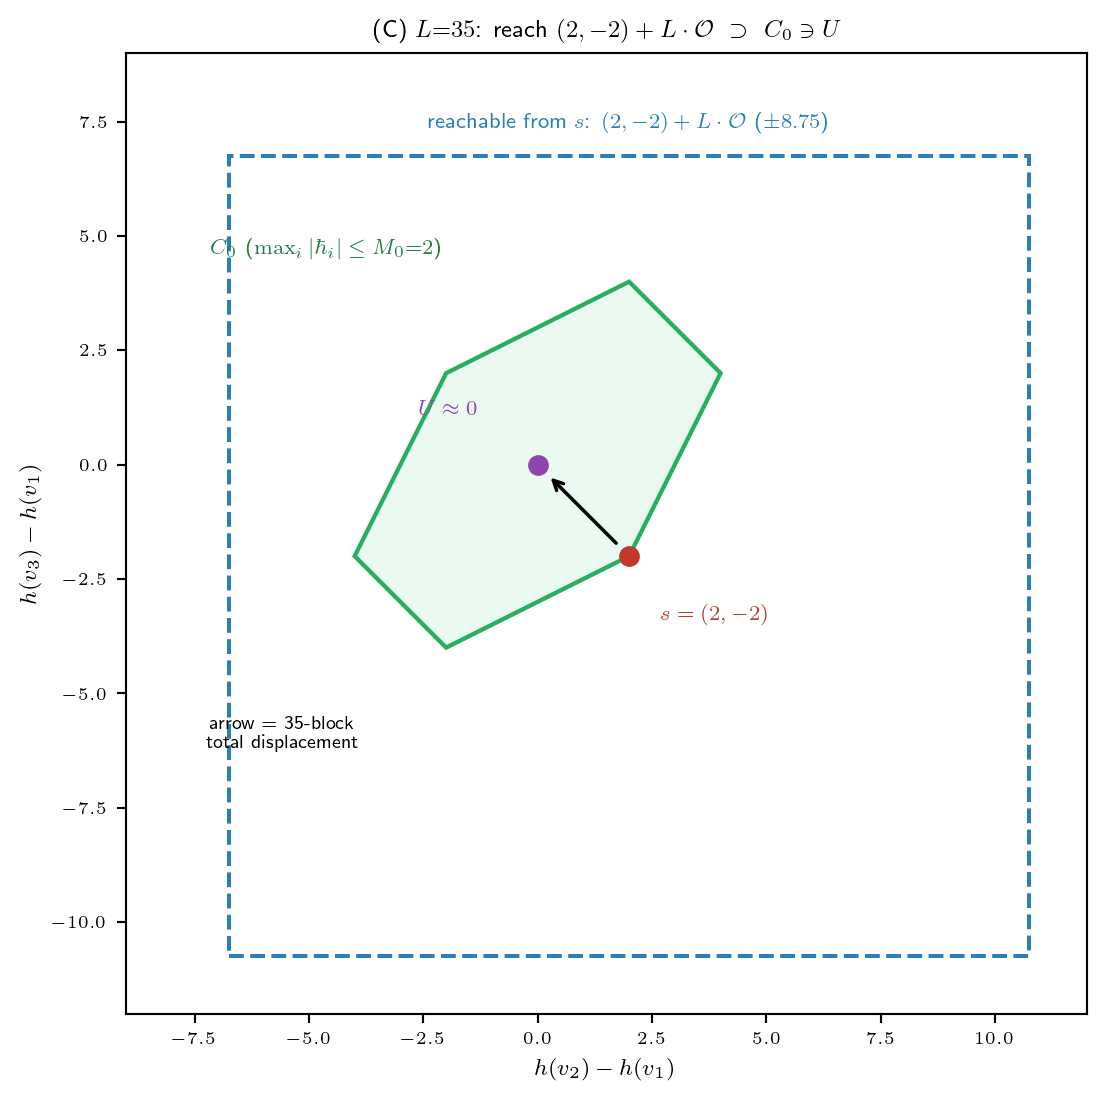
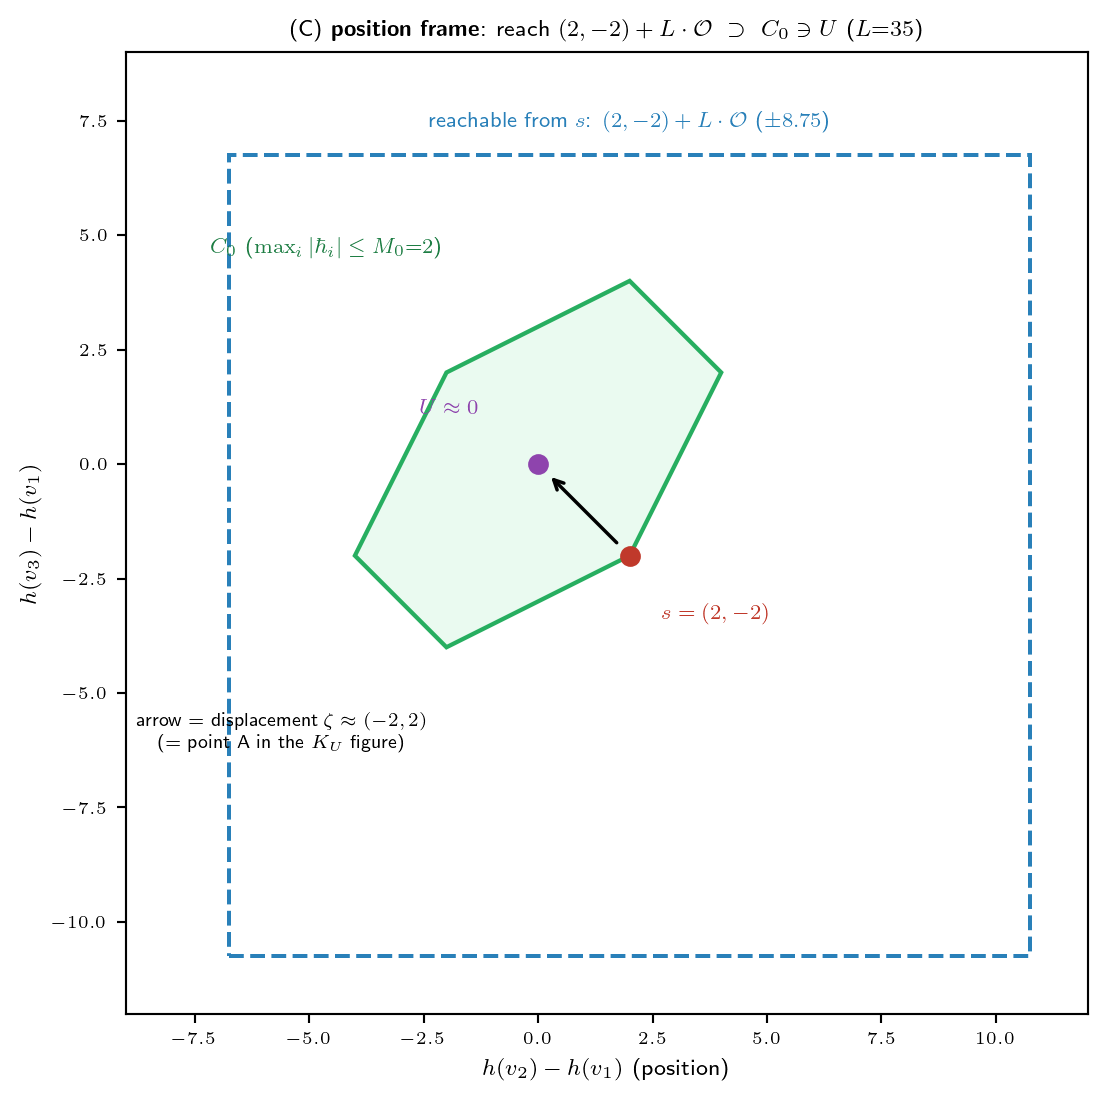
post(fix): petite/K3 — 두 도달역 그림 좌표계 명시 (position vs displacement frame)
LO_reach=위치공간(s 중심)·KU_rho=변위공간(원점 중심) 라벨 + 화살표↔점A 연결 + 산문 bridge로 프레임 혼동 해소.

diff --git a/docs/Posts/260605_c4e5ad.html b/docs/Posts/260605_c4e5ad.html
@@ -251,7 +251,7 @@ window.Quarto = {
 <p><strong>(1) 높이차 <span class="math inline">\(\mathring{\mathbf{h}}\)</span></strong> — <span class="math inline">\(v_1\)</span>을 기준으로 뺀 anchored 높이차: <span class="math display">\[\mathring{\mathbf{h}}(s) = \bigl(h(v_2) - h(v_1),\ h(v_3) - h(v_1)\bigr) = (7-5,\ 3-5) = (2, -2).\]</span></p>
 <p><strong>(2) 현재 노드 <span class="math inline">\(X\)</span></strong> — walker가 지금 있는 노드 (예: <span class="math inline">\(v_1\)</span>).</p>
 <p>→ 우리 예제의 상태는 <span class="math inline">\(s = \bigl((2,-2),\ v_1\bigr)\)</span>이다. (<span class="math inline">\(\mathring{\mathbf{h}}\)</span>가 절대높이 <span class="math inline">\(5,7,3\)</span>을 안 기억해도 되는 이유: 눈은 모든 노드에 똑같이 와 닿는 게 아니라 <strong>높이차</strong>만 동역학에 들어오기 때문. 높이를 통째로 <span class="math inline">\(+10\)</span> 해도 같은 상태.)</p>
-<div id="0b70e0dc" class="cell" data-execution_count="1">
+<div id="a7b79ffd" class="cell" data-execution_count="1">
 <div class="cell-output cell-output-display">
 <div>
 <figure class="figure">
@@ -274,7 +274,7 @@ window.Quarto = {
 <p>로 정의한다. (<span class="math inline">\(K_3\)</span> 예제: <span class="math inline">\(\bar h = \tfrac{5+7+3}{3} = 5\)</span>, <span class="math inline">\(\hbar = (0, 2, -2)\)</span>, 따라서 <span class="math inline">\(M(s) = 2\)</span>.) small set은 이 <span class="math inline">\(M\)</span>의 sublevel:</p>
 <p><span class="math display">\[C_0 = \{\, M \leq M_0 \,\} \times V, \qquad \text{이 예제 } M_0 := 2.\]</span></p>
 <p>우리 <span class="math inline">\(s\)</span>는 <span class="math inline">\(M(s) = 2 = M_0\)</span>이라 <span class="math inline">\(C_0\)</span> <strong>경계</strong>(사실 꼭짓점) 위 — <span class="math inline">\(v_2\)</span>가 천장, <span class="math inline">\(v_3\)</span>가 바닥인 <strong>가장 치우친 worst case</strong>다. <span class="math inline">\(M\)</span>은 anchored 좌표 <span class="math inline">\(\mathring{\mathbf{h}}=(u_1,u_2)\)</span> (<span class="math inline">\(u_1{=}h(v_2){-}h(v_1)\)</span>, <span class="math inline">\(u_2{=}h(v_3){-}h(v_1)\)</span>)만으로도 쓸 수 있고(<span class="math inline">\(\hbar = (0,u_1,u_2)-\tfrac{u_1+u_2}{3}\mathbf{1}\)</span>), <span class="math inline">\(C_0\)</span>는 그 평면에서 <strong>육각형</strong>(<span class="math inline">\(\times V\)</span>, 꼭짓점 <span class="math inline">\(\pm(4,2),\pm(2,4),\pm(2,-2)\)</span>)으로 나타난다.</p>
-<div id="43a15146" class="cell" data-execution_count="2">
+<div id="3a5cf8f5" class="cell" data-execution_count="2">
 <div class="cell-output cell-output-display">
 <div>
 <figure class="figure">
@@ -313,7 +313,7 @@ window.Quarto = {
 </ul>
 <p>위 밀도 하한의 유도 (왜 <span class="math inline">\(\mathcal{O}\)</span> 위에서만 <span class="math inline">\(f \geq \tfrac12\)</span>인가): 증분 밀도 <span class="math inline">\(f\)</span>는 <span class="math inline">\(b^{\sharp}_1\)</span>을 적분해 없앤 것인데, 모든 <span class="math inline">\(|b^{\sharp}_i - b^{\sharp}_1| &lt; b/4\)</span>일 때 적분 구간이 길이 <span class="math inline">\(\geq b/2\)</span>를 품어 <span class="math inline">\(f \geq b^{1-n}/2\)</span>로 떨어진다 (<span class="math inline">\(b{=}1, n{=}3\)</span>이라 <span class="math inline">\(\tfrac12\)</span>). 그 조건이 정확히 <span class="math inline">\(\mathring{\mathbf{b}}^{\sharp} \in \mathcal{O}\)</span>.</p>
 <p><strong>주의 — <span class="math inline">\(\mathcal{O}\)</span>는 “한 블록으로 갈 수 있는 전부”가 아니다.</strong> 증분 <span class="math inline">\(\mathring{\mathbf{b}}^{\sharp} = (b^{\sharp}_2 - b^{\sharp}_1,\ b^{\sharp}_3 - b^{\sharp}_1)\)</span>은 각 <span class="math inline">\(b^{\sharp}_i \in [0,b]\)</span>라, 실제 <strong>도달 영역</strong>은 박스가 아니라 <strong>육각형</strong> <span class="math display">\[\{\, \zeta : |\zeta_1| \leq b,\ |\zeta_2| \leq b,\ |\zeta_1 - \zeta_2| \leq b \,\}\]</span> 이다 (증분도 높이차 벡터라 pairwise range <span class="math inline">\(\leq b=1\)</span>). 예컨대 모서리 <span class="math inline">\((b, -b)\)</span>는 <span class="math inline">\(b^{\sharp}_1\)</span>을 공유하는 제약 때문에 도달 불가(<span class="math inline">\(|x-y|=2b &gt; b\)</span>). 박스 <span class="math inline">\(\mathcal{O}\)</span>(한 좌표 <span class="math inline">\(\pm b/4\)</span>)는 그 육각형 <strong>안쪽의 밀도 <span class="math inline">\(\geq \tfrac12\)</span> 보장 부분</strong>일 뿐이다. 증명이 박스만 쓰는 이유: 깔끔한 밀도 하한 <span class="math inline">\(b^{1-n}/2\)</span>가 거기서만 나오기 때문 (육각형 안·박스 밖은 밀도가 양수지만 그 하한은 안 나옴). 아래 그림은 (A) <strong>큰 <span class="math inline">\(C_0\)</span> 안에 한 블록 도달역(작은 육각형)이 작게 들어있는 모습</strong> — 둘 다 육각형이지만 정의가 다르다(<span class="math inline">\(C_0\)</span>는 centered <span class="math inline">\(M\leq M_0{=}2\)</span>·원점 중심, 도달역은 pairwise range <span class="math inline">\(\leq b{=}1\)</span>·<span class="math inline">\(s{=}(2,-2)\)</span> 중심) — 과 (B) 그 도달역 줌인(도달 육각형 <span class="math inline">\(\supset\)</span> 밀도박스 <span class="math inline">\(\mathcal{O}\)</span>)을 보여준다.</p>
-<div id="990ea1f1" class="cell" data-execution_count="3">
+<div id="7465b5ae" class="cell" data-execution_count="3">
 <div class="cell-output cell-output-display">
 <div>
 <figure class="figure">
@@ -328,7 +328,7 @@ window.Quarto = {
 <p><strong>정의 (도달역).</strong> 한 블록 증분이 밀도바닥 박스 <span class="math inline">\(\mathcal{O}\)</span> 안에 있을 때, <span class="math inline">\(L\)</span>블록을 누적한 총변위가 떨어질 수 있는 곳이 곧 Minkowski 합 <span class="math inline">\(L\cdot\mathcal{O}\)</span>다. 이 집합을 <strong>도달역</strong>(reachable region)이라 부른다 — “<span class="math inline">\(L\)</span>번 걸어서 닿을 수 있는 모든 점”. 출발점 <span class="math inline">\(s\)</span>에서 시작하면 도달역은 <span class="math inline">\(s + L\cdot\mathcal{O}\)</span>로 평행이동한다.</p>
 </blockquote>
 <p><span class="math inline">\(M_0 = 2\)</span>, <span class="math inline">\(b = 1\)</span>이라 <span class="math inline">\(L = \lceil 16\cdot 2 + 3 \rceil = 35\)</span>. 그러면 <span class="math inline">\(L\cdot\mathcal{O} = (-\tfrac{L}{4}, \tfrac{L}{4})^2 = (-8.75, 8.75)^2\)</span> — <strong>출발 <span class="math inline">\(\mathring{\mathbf{h}}(s)=(2,-2)\)</span>를 원점 근처로 끌어내릴 만큼 넉넉</strong>하다. (falls가 채울 변위 <span class="math inline">\(\zeta = u - \mathring{\mathbf{h}}(s) - r \approx (0,0)-(2,-2) = (-2,2)\)</span>가 <span class="math inline">\(\pm 8.75\)</span> 안에 푹 들어옴. 여기 <span class="math inline">\(r\)</span>은 <strong>non-fall 잔차</strong>로 ③에서 정의·범위를 못박는다.)</p>
-<div id="17630ad5" class="cell" data-execution_count="4">
+<div id="43144f06" class="cell" data-execution_count="4">
 <div class="cell-output cell-output-display">
 <div>
 <figure class="figure">
@@ -482,16 +482,19 @@ Important
 </div>
 </div>
 <p>A는 손잡이를 거의 안 돌린 <strong>중심 근처 변위</strong>(falls가 살짝만 밀면 됨), E는 둘을 극단으로 돌린 <strong>숙제 목록의 먼 표적</strong>. 도착지 <span class="math inline">\(U\)</span>는 원점 근처 <span class="math inline">\(\pm0.006\)</span>짜리 점만 한 요새지만, “<span class="math inline">\(-\mathring{\mathbf{h}}(s)\)</span> (최대 <span class="math inline">\(2M_0{=}4\)</span>)”와 “<span class="math inline">\(-r\)</span> (최대 <span class="math inline">\(4.375\)</span>)” 두 손잡이가 그걸 <strong><span class="math inline">\(\pm8.6\)</span>짜리 큰 집합으로 부풀린 게</strong> <span class="math inline">\(K_U\)</span>다. 아래 그림이 그 집합 전체(보라 zonotope)와 표적 A–E가 도달역 안에 어떻게 드는지 보여준다.</p>
-<div id="92ff9b3a" class="cell" data-execution_count="5">
+<div id="1bf8b7bf" class="cell" data-execution_count="5">
 <div class="cell-output cell-output-display">
 <div>
 <figure class="figure">
-<p><img src="260605_유진_HST_petite_smallset_K3_files/figure-html/cell-6-output-1.png" width="543" height="531" class="figure-img"></p>
+<p><img src="260605_유진_HST_petite_smallset_K3_files/figure-html/cell-6-output-1.png" width="544" height="531" class="figure-img"></p>
 </figure>
 </div>
 </div>
 </div>
 <p>보라 <span class="math inline">\(K_U\)</span>는 (육각형 <span class="math inline">\(C_0 \oplus\)</span> 잔차 박스)를 합친 zonotope로, 그 끝(<span class="math inline">\(\|\zeta\|_\infty &lt; 8.625\)</span>)도 도달역(초록 점선, <span class="math inline">\(8.75\)</span>) 안에 <strong>여유 <span class="math inline">\(b/8 = 0.125\)</span></strong> 두고 컴팩트하게 든다. 아래 접이식에 삼각부등식 증명을 둔다.</p>
+<blockquote class="blockquote">
+<p><strong>좌표계 주의 — 이 그림은 §2②의 도달역 그림과 축이 다르다.</strong> ②(LO_reach)는 <strong>위치 공간</strong>(축 <span class="math inline">\(h(v_i){-}h(v_1)\)</span>, 도달역이 출발 <span class="math inline">\(s\)</span> 중심 <span class="math inline">\(s+L\cdot\mathcal{O}\)</span>)이고, 이 그림은 <strong>변위 공간</strong> <span class="math inline">\(\zeta\)</span>(원점 중심 <span class="math inline">\(\operatorname{int}(L\cdot\mathcal{O})\)</span>)다. 둘은 <span class="math inline">\(\zeta = (\text{도착}) - (\text{출발 } s)\)</span>로 연결돼 — <strong>②의 화살표 하나(변위 <span class="math inline">\(\approx(-2,2)\)</span>)가 여기선 점 하나(A)</strong>다. “위치 = $s + $ 변위”라, 변위 그림은 위치 그림을 <span class="math inline">\(s\)</span>만큼 원점으로 끌어온 셈.</p>
+</blockquote>
 <div class="callout callout-style-default callout-note callout-titled">
 <div class="callout-header d-flex align-content-center collapsed" data-bs-toggle="collapse" data-bs-target=".callout-3-contents" aria-controls="callout-3" aria-expanded="false" aria-label="Toggle callout">
 <div class="callout-icon-container">
@@ -509,7 +512,7 @@ Important
 </div>
 </div>
 </div>
-<div id="3e7622a8" class="cell" data-execution_count="6">
+<div id="879e9d0e" class="cell" data-execution_count="6">
 <div class="cell-output cell-output-display">
 <div>
 <figure class="figure">
